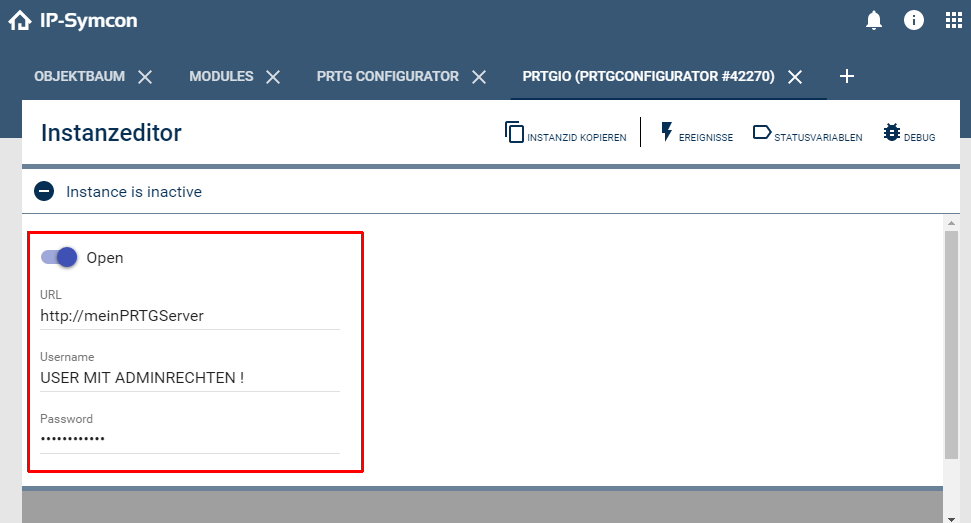
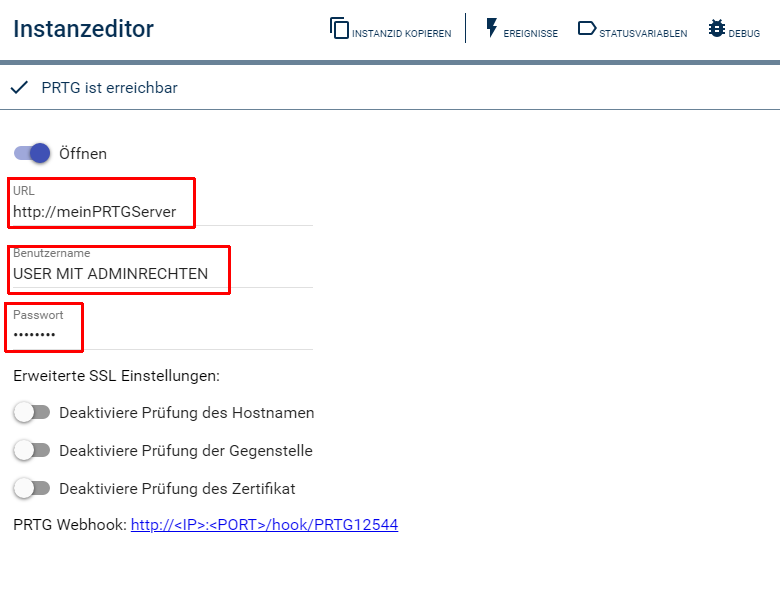
Version 1.10:  - SSL Checks sind deaktivierbar  - Sensorwerte mit Laufzeit Tage verursachten Fehler

diff --git a/libs/VariableHelper.php b/libs/VariableHelper.php
@@ -1,6 +1,10 @@
 <?php
 
 declare(strict_types=1);
+
+/**
+ * Trait mit Hilfsfunktionen für Variablen.
+ */
 trait VariableHelper
 {
     private function ConvertRuntime(int $Seconds)
@@ -63,7 +67,7 @@ trait VariableHelper
         switch ($data[1]) {
             case 'Tg.':
                 $Result = [
-                    'Data'    => $this->ConvertRuntime((int)$Value['lastvalue_raw']),
+                    'Data'    => $this->ConvertRuntime((int) $Value['lastvalue_raw']),
                     'Profile' => '',
                     'VarType' => vtString
                 ];
@@ -154,6 +158,7 @@ trait VariableHelper
             }
         }
     }
+
 }
 
 /**
@@ -312,4 +317,5 @@ trait VariableProfile
         }
         IPS_DeleteVariableProfile($Name);
     }
+
 }

diff --git a/PRTGIO/README.md b/PRTGIO/README.md
@@ -1,5 +1,5 @@
 [![Version](https://img.shields.io/badge/Symcon-PHPModul-red.svg)](https://www.symcon.de/service/dokumentation/entwicklerbereich/sdk-tools/sdk-php/)
-[![Version](https://img.shields.io/badge/Modul%20Version-1.00-blue.svg)]()
+[![Version](https://img.shields.io/badge/Modul%20Version-1.10-blue.svg)]()
 [![Version](https://img.shields.io/badge/License-CC%20BY--NC--SA%204.0-green.svg)](https://creativecommons.org/licenses/by-nc-sa/4.0/)  
 [![Version](https://img.shields.io/badge/Symcon%20Version-5.0%20%3E-green.svg)](https://www.symcon.de/forum/threads/37412-IP-Symcon-5-0-%28Testing%29)
 
@@ -54,6 +54,7 @@ Alternativ ist das Modul im Dialog 'Instanz hinzufügen' unter dem Hersteller 'P
 
 Folgende Parameter sind in der Instanz zu konfigurieren:  
 Dabei sollte der Benutzer in PRTG Administrative Rechte bekommen, um die Überwachung zu steuern und Alarme quittieren zu können.  
+Die Erweiterten SSL Einstellungen sind per default deaktiv.  Für z.B. selbst-signierte Zertifikate sind z.B. Option 1 und 2 zu aktiviern.  
 
 ![Konfigurator](imgs/conf.png)  
 **Konfigurationsseite:**  
@@ -64,6 +65,9 @@ Dabei sollte der Benutzer in PRTG Administrative Rechte bekommen, um die Überwa
 | Host                | string  |              | URL zum PRTG Webfront z.B. http://prtg:8081                            |
 | Username            | string  |              | Benutzername in PRTG                                                   |
 | Password            | string  |              | Passwort für den Benutzer                                              |
+| NoHostVerify        | bool    |              | Deaktiviere Prüfung des Hostnamen                                      |
+| NoPeerVerify        | bool    |              | Deaktiviere Prüfung der Gegenstelle                                    |
+| NoCertCheck         | bool    |              | Deaktiviere Prüfung des Zertifikat                                     |
 
 ## 5. Statusvariablen und Profile
 
@@ -139,6 +143,9 @@ Nach dem erzeugen und speichern der Sensoreinstellungen dauert es einen Augenbli
 
 
 ### 3. Changelog  
+
+Version 1.1:  
+ - SSL Checks sind deaktivierbar  
 
 Version 1.0:  
  - Erstes offizielles Release  

diff --git a/README.md b/README.md
@@ -1,5 +1,5 @@
 [![Version](https://img.shields.io/badge/Symcon-PHPModul-red.svg)](https://www.symcon.de/service/dokumentation/entwicklerbereich/sdk-tools/sdk-php/)
-[![Version](https://img.shields.io/badge/Modul%20Version-1.00-blue.svg)]()
+[![Version](https://img.shields.io/badge/Modul%20Version-1.10-blue.svg)]()
 [![License](https://img.shields.io/badge/License-CC%20BY--NC--SA%204.0-green.svg)](https://creativecommons.org/licenses/by-nc-sa/4.0/)  
 [![Version](https://img.shields.io/badge/Symcon%20Version-5.0%20%3E-green.svg)](https://www.symcon.de/forum/threads/37412-IP-Symcon-5-0-%28Testing%29)
 [![StyleCI](https://styleci.io/repos/132882302/shield?style=flat)](https://styleci.io/repos/132882302)  
@@ -91,6 +91,10 @@ Hierzu ist PRTG und die URL im [PRTG IO:](PRTGIO/) entsprechend zu konfigurieren
 Unverschlüsselte Übertragung sollte niemals zur Kommunikation mit einem externen PRTG-Server genutzt werden, da die Logindaten dann nicht verschlüsselt übertragen werden!  
 
 ### 3. Changlog
+
+Version 1.10:  
+ - SSL Checks sind deaktivierbar  
+ - Sensorwerte mit Laufzeit Tage verursachten Fehler  
 
 Version 1.0:  
  - Erstes offizielles Release  

diff --git a/PRTGSensor/README.md b/PRTGSensor/README.md
@@ -1,5 +1,5 @@
 [![Version](https://img.shields.io/badge/Symcon-PHPModul-red.svg)](https://www.symcon.de/service/dokumentation/entwicklerbereich/sdk-tools/sdk-php/)
-[![Version](https://img.shields.io/badge/Modul%20Version-1.00-blue.svg)]()
+[![Version](https://img.shields.io/badge/Modul%20Version-1.10-blue.svg)]()
 [![Version](https://img.shields.io/badge/License-CC%20BY--NC--SA%204.0-green.svg)](https://creativecommons.org/licenses/by-nc-sa/4.0/)  
 [![Version](https://img.shields.io/badge/Symcon%20Version-5.0%20%3E-green.svg)](https://www.symcon.de/forum/threads/37412-IP-Symcon-5-0-%28Testing%29)
 
@@ -167,7 +167,10 @@ Im Fehlerfall wird eine Warnung erzeugt und `false`zurück gegeben.
 
 ## 8. Anhang
 
-**Changlog:**  
+**Changlog:** 
+ 
+Version 1.10:  
+ - Sensorwerte mit Laufzeit Tage verursachten Fehler  
 
 Version 1.0:  
  - Erstes offizielles Release  
